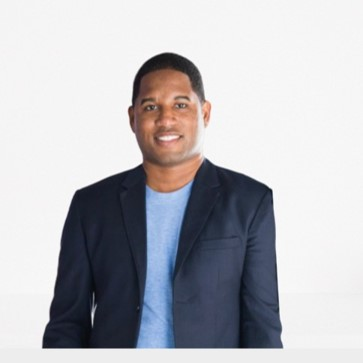
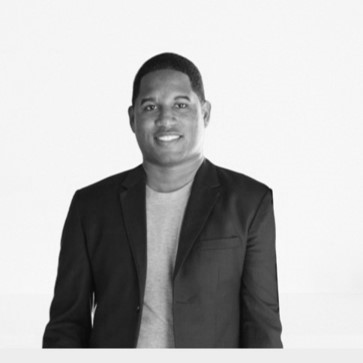
Grey Pics on site and cleaned up links to nowhere.

diff --git a/contact.html b/contact.html
@@ -80,7 +80,7 @@
     </header>
     
 
-    <div class="site-blocks-cover overlay inner-page-cover" style="background-image: url(images/hero_bg_1.jpg);" data-aos="fade" data-stellar-background-ratio="0.5">
+    <div class="site-blocks-cover overlay inner-page-cover" style="background-image: url(images/hero_bg_2.jpg);" data-aos="fade" data-stellar-background-ratio="0.5">
       <div class="container">
         <div class="row align-items-center justify-content-center text-center">
 
@@ -96,7 +96,9 @@
     <div class="site-section">
       <div class="container" data-aos="fade-up">
         <div class="row">
-          <div class="col-md-7 mb-5">
+
+          <iframe src="https://kennyg.substack.com/embed" width="480" height="320" style="border:1px solid #EEE; background:white;" frameborder="0" scrolling="no"></iframe>
+<!--           <div class="col-md-7 mb-5">
             <form action="#" method="post" class="bg-white">
               
               <div class="">
@@ -150,17 +152,16 @@
 
             </div>
             
-          </div>
+          </div> -->
         </div>
       </div>
     </div>
 
     
-    <div class="site-blocks-cover overlay inner-page-cover" style="background-image: url(images/hero_bg_1.jpg);" data-aos="fade" data-stellar-background-ratio="0.5">
+    <div class="site-blocks-cover overlay inner-page-cover" style="background-image: url(images/hero_bg_2.jpg);" data-aos="fade" data-stellar-background-ratio="0.5">
       <div class="container">
         <div class="row align-items-center justify-content-center text-center">
-
-          <div class="col-md-6" data-aos="fade-up" data-aos-delay="400">
+<!--           <div class="col-md-6" data-aos="fade-up" data-aos-delay="400">
             <h2>Subscribe</h2>
             <p class="mb-5">Lorem ipsum dolor sit amet, consectetur adipisicing elit nihil saepe libero sit odio obcaecati veniam.</p>
             <form action="#" method="post" class="site-block-subscribe">
@@ -171,7 +172,7 @@
                   </div>
                 </div>
               </form>
-          </div>
+          </div> -->
         </div>
       </div>
     </div>  
@@ -182,34 +183,32 @@
         <div class="row">
           <div class="col-lg-4">
             <h3>About Us</h3>
-            <p>Lorem ipsum dolor sit amet, consectetur adipisicing elit. Praesentium animi, odio beatae aspernatur natus recusandae quasi magni eum voluptatem nam!</p>
+            <p>Highlighting business that are the "new normal"; minority owned businesses that leverage all the tools in 2020 and beyond to service customers.</p>
           </div>
           <div class="col-lg-3 mx-auto">
             <h3>Navigation</h3>
             <ul class="list-unstyled">
-              <li><a href="#">Podcasts</a></li>
-              <li><a href="#">Services</a></li>
-              <li><a href="#">About Us</a></li>
-              <li><a href="#">Blog</a></li>
+              <li><a href="#">Podcast</a></li>
+              <li><a href="#">About</a></li>
               <li><a href="#">Contact</a></li>
             </ul>
           </div>
           <div class="col-lg-4">
-            <h3>Subscribe</h3>
+            <!-- <h3>Subscribe</h3>
             <p>Lorem ipsum dolor sit amet, consectetur adipisicing elit. Quod, quibusdam!</p>
             <form action="#" class="form-subscribe">
               <input type="email" class="form-control mb-3" placeholder="Enter Email">
               <input type="submit" class="btn btn-primary" value="Subscribe">
-            </form>
+            </form> -->
           </div>
         </div>
 
         <div class="row pt-5 mt-5 text-center">
           <div class="col-md-12">
             <p>
-            <!-- Link back to Colorlib can't be removed. Template is licensed under CC BY 3.0. -->
-            Copyright &copy;<script data-cfasync="false" src="/cdn-cgi/scripts/5c5dd728/cloudflare-static/email-decode.min.js"></script><script>document.write(new Date().getFullYear());</script> All rights reserved | This template is made with <i class="icon-heart-o" aria-hidden="true"></i> by <a href="https://colorlib.com" target="_blank" >Colorlib</a>
-            <!-- Link back to Colorlib can't be removed. Template is licensed under CC BY 3.0. -->
+              <!-- Link back to Colorlib can't be removed. Template is licensed under CC BY 3.0. -->
+              Copyright &copy;<script data-cfasync="false" src="/cdn-cgi/scripts/5c5dd728/cloudflare-static/email-decode.min.js"></script><script>document.write(new Date().getFullYear());</script> All rights reserved | This template is made with <i class="icon-heart-o" aria-hidden="true"></i> by <a href="https://colorlib.com" target="_blank" >Colorlib</a>
+              <!-- Link back to Colorlib can't be removed. Template is licensed under CC BY 3.0. -->
             </p>
           </div>
           

diff --git a/about.html b/about.html
@@ -154,11 +154,11 @@
       </div>
     </div>
     
-    <div class="site-blocks-cover overlay inner-page-cover" style="background-image: url(images/hero_bg_1.jpg);" data-aos="fade" data-stellar-background-ratio="0.5">
+    <div class="site-blocks-cover overlay inner-page-cover" style="background-image: url(images/hero_bg_2.jpg);" data-aos="fade" data-stellar-background-ratio="0.5">
       <div class="container">
         <div class="row align-items-center justify-content-center text-center">
 
-          <div class="col-md-6" data-aos="fade-up" data-aos-delay="400">
+<!--           <div class="col-md-6" data-aos="fade-up" data-aos-delay="400">
             <h2>Subscribe</h2>
             <p class="mb-5">Lorem ipsum dolor sit amet, consectetur adipisicing elit nihil saepe libero sit odio obcaecati veniam.</p>
             <form action="#" method="post" class="site-block-subscribe">
@@ -169,7 +169,7 @@
                   </div>
                 </div>
               </form>
-          </div>
+          </div> -->
         </div>
       </div>
     </div>  
@@ -180,34 +180,32 @@
         <div class="row">
           <div class="col-lg-4">
             <h3>About Us</h3>
-            <p>Lorem ipsum dolor sit amet, consectetur adipisicing elit. Praesentium animi, odio beatae aspernatur natus recusandae quasi magni eum voluptatem nam!</p>
+            <p>Highlighting business that are the "new normal"; minority owned businesses that leverage all the tools in 2020 and beyond to service customers.</p>
           </div>
           <div class="col-lg-3 mx-auto">
             <h3>Navigation</h3>
             <ul class="list-unstyled">
-              <li><a href="#">Podcasts</a></li>
-              <li><a href="#">Services</a></li>
-              <li><a href="#">About Us</a></li>
-              <li><a href="#">Blog</a></li>
-              <li><a href="#">Contact</a></li>
+              <li><a href="index.html">Podcast</a></li>
+              <li><a href="about.html">About</a></li>
+<!--               <li><a href="#">Contact</a></li> -->
             </ul>
           </div>
           <div class="col-lg-4">
-            <h3>Subscribe</h3>
+            <!-- <h3>Subscribe</h3>
             <p>Lorem ipsum dolor sit amet, consectetur adipisicing elit. Quod, quibusdam!</p>
             <form action="#" class="form-subscribe">
               <input type="email" class="form-control mb-3" placeholder="Enter Email">
               <input type="submit" class="btn btn-primary" value="Subscribe">
-            </form>
+            </form> -->
           </div>
         </div>
 
         <div class="row pt-5 mt-5 text-center">
           <div class="col-md-12">
             <p>
-            <!-- Link back to Colorlib can't be removed. Template is licensed under CC BY 3.0. -->
-            Copyright &copy;<script data-cfasync="false" src="/cdn-cgi/scripts/5c5dd728/cloudflare-static/email-decode.min.js"></script><script>document.write(new Date().getFullYear());</script> All rights reserved | This template is made with <i class="icon-heart-o" aria-hidden="true"></i> by <a href="https://colorlib.com" target="_blank" >Colorlib</a>
-            <!-- Link back to Colorlib can't be removed. Template is licensed under CC BY 3.0. -->
+              <!-- Link back to Colorlib can't be removed. Template is licensed under CC BY 3.0. -->
+              Copyright &copy;<script data-cfasync="false" src="/cdn-cgi/scripts/5c5dd728/cloudflare-static/email-decode.min.js"></script><script>document.write(new Date().getFullYear());</script> All rights reserved | This template is made with <i class="icon-heart-o" aria-hidden="true"></i> by <a href="https://colorlib.com" target="_blank" >Colorlib</a>
+              <!-- Link back to Colorlib can't be removed. Template is licensed under CC BY 3.0. -->
             </p>
           </div>
           

diff --git a/index.html b/index.html
@@ -267,9 +267,9 @@
           <div class="col-lg-3 mx-auto">
             <h3>Navigation</h3>
             <ul class="list-unstyled">
-              <li><a href="#">Podcast</a></li>
-              <li><a href="#">About</a></li>
-              <li><a href="#">Contact</a></li>
+              <li><a href="index.html">Podcast</a></li>
+              <li><a href="about.html">About</a></li>
+<!--               <li><a href="#">Contact</a></li> -->
             </ul>
           </div>
           <div class="col-lg-4">
